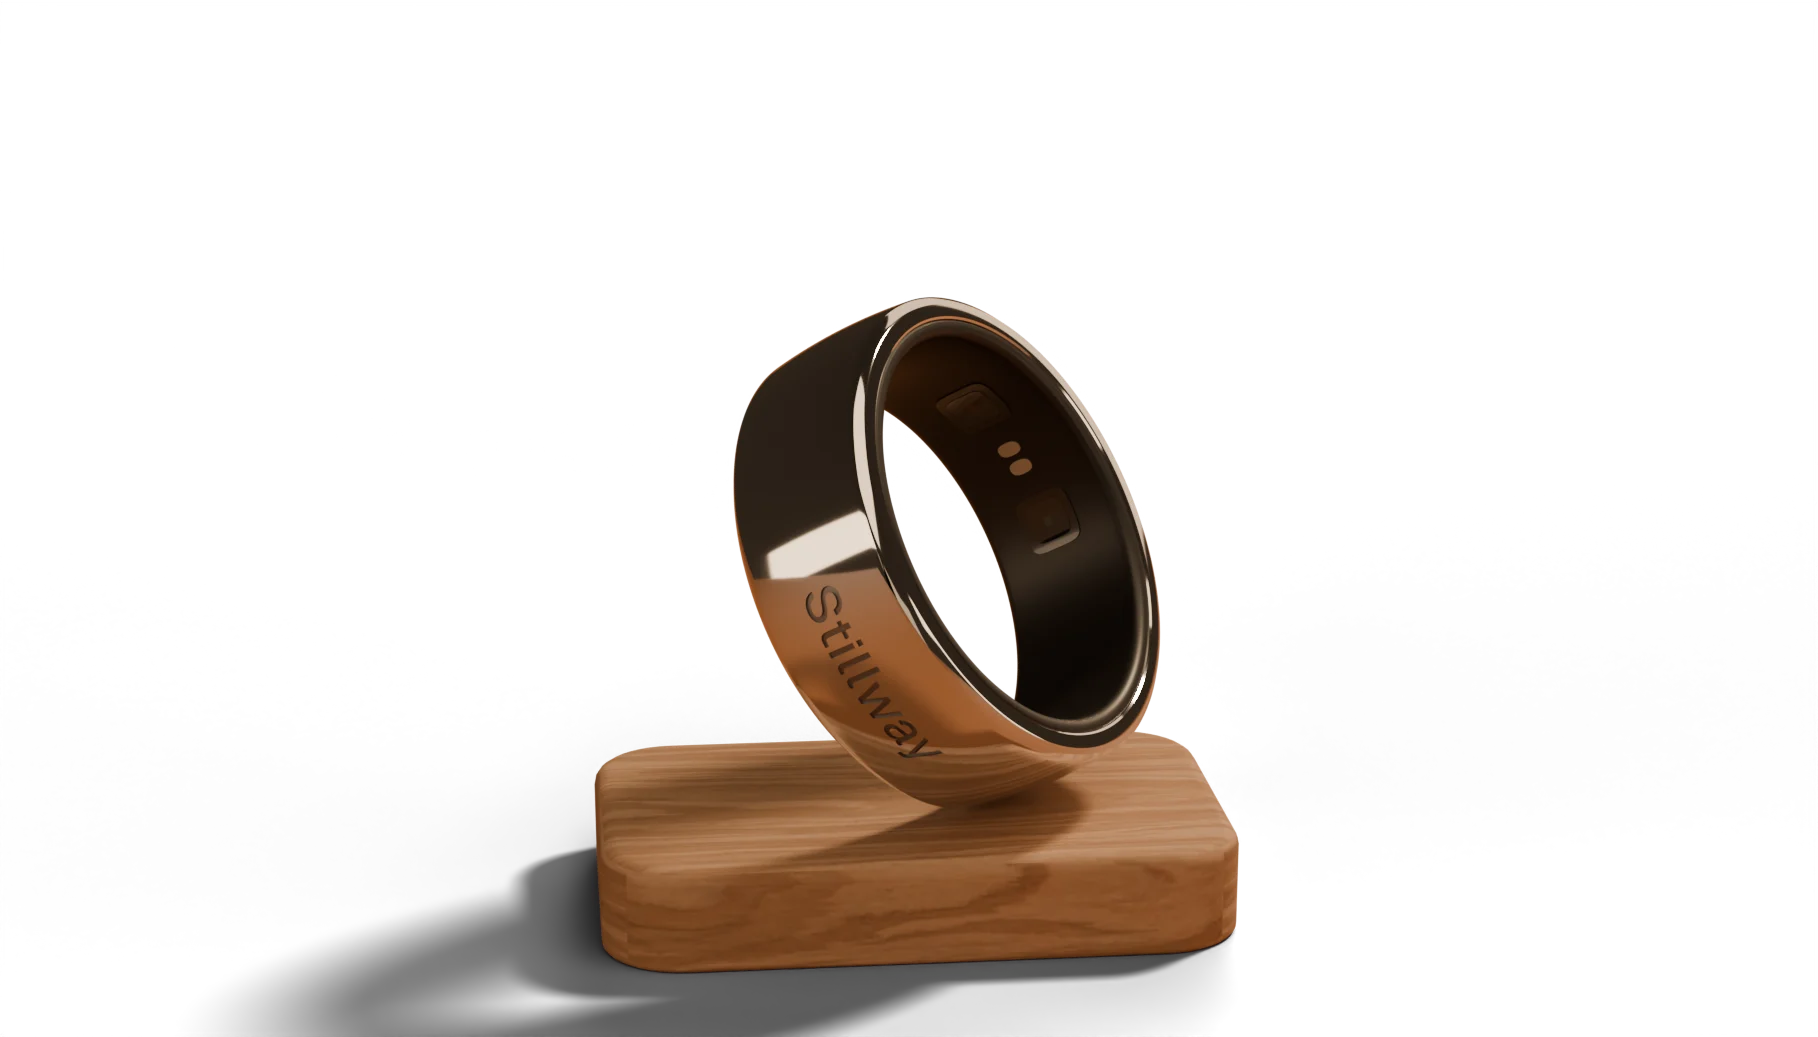
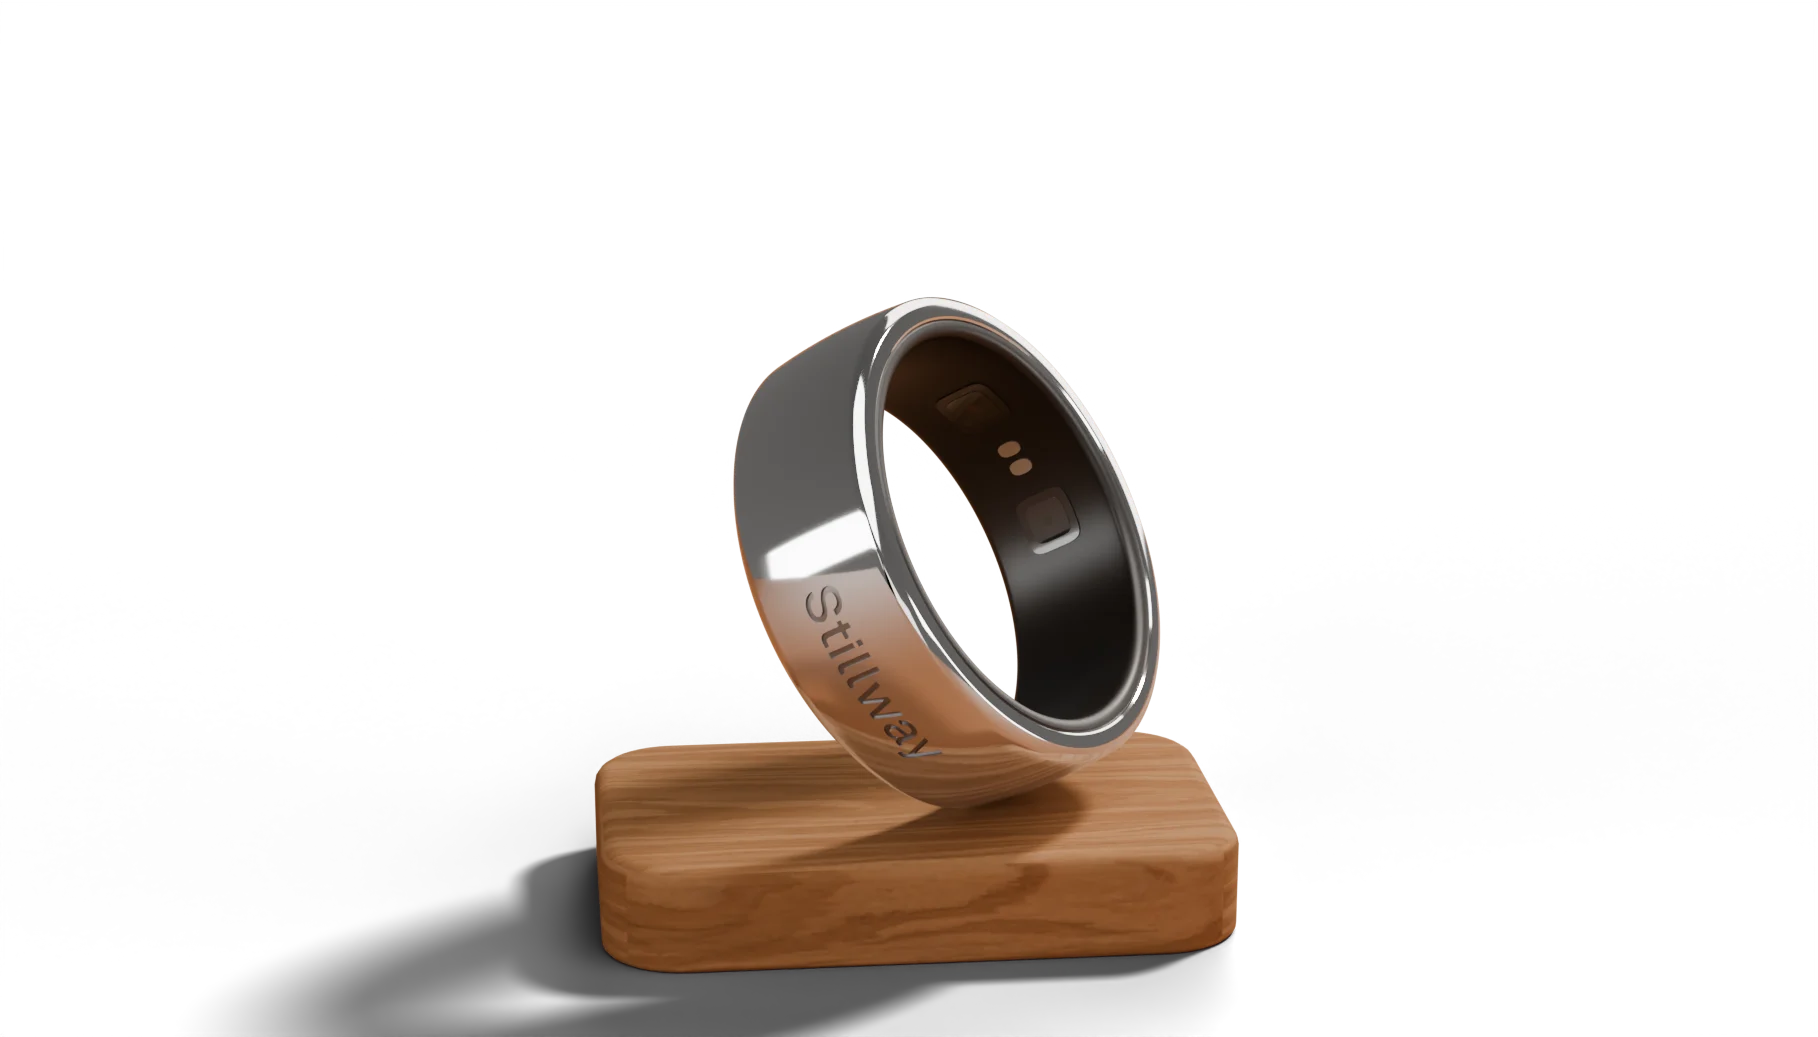
feat(web-v2): D-179 Stage 2 — hero text per Figma 40004725:5602, mobile layout, neutral poster e344d6a, exact 2D subject scale on phones

Changed region(s): [[0.4004, 0.2777, 0.6469, 0.7406]]

diff --git a/web-v2/src/scripts/ring/stage.ts b/web-v2/src/scripts/ring/stage.ts
@@ -167,16 +167,16 @@ export async function createRingStage(canvas: HTMLCanvasElement): Promise<RingSt
   /* D-179 1b: light values come from the pose JSON (lights.key.intensity, lights.fill,
      lights.pedestal_envMapIntensity); these are only the fallbacks and one gain each, tuned by eye
      against the 3D Designer's poster, so a new JSON drop retunes itself */
-  const LAMP_GAIN = 2;
+  const LAMP_GAIN = 2.3;
   const RING_DESK_ENV = 1.6;
   const DESK_PAPER = 0.35;
   /** Cycles' warm desk bounce lights the shaded faces; the web has no GI, so the env stands in */
-  const PED_ENV_GAIN = 5;
+  const PED_ENV_GAIN = 2.6;
   const SHADOW_RADIUS = 40;
   let LAMP = 2.6;
   let PED_ENV = 0.35;
   /** warm-yellow multiply on the oak: AgX turns the lamp-lit oak pinkish; matched by eye to the poster */
-  const PED_TINT = new THREE.Color().setRGB(1, 0.93, 0.5);
+  const PED_TINT = new THREE.Color().setRGB(1, 0.9, 0.42);
   renderer.shadowMap.enabled = true;
   renderer.shadowMap.type = THREE.VSMShadowMap; // smooth penumbra, no PCF noise or banding
   const desk = new THREE.Group();
@@ -285,8 +285,16 @@ export async function createRingStage(canvas: HTMLCanvasElement): Promise<RingSt
       const ay = (heroBg.anchor.y - 0.5) * ch;
       return [ax + ((fu - 0.5) * cw - ax) * zoom, ay + ((fv - 0.5) * ch - ay) * zoom];
     };
-    const [px, py] = toScreen(0.5, (C.frameH / 2 + C.shiftY * C.frameW) / C.frameH);
-    return { F: C.focalPx * (cw / C.frameW) * zoom, px, py };
+    const [px0, py0] = toScreen(0.5, (C.frameH / 2 + C.shiftY * C.frameW) / C.frameH);
+    /* phones: ring + pedestal as a 2D scale of the photo camera's image about the pedestal origin
+       (heroBg.subjectOrigin) plus a shift of subjectDy × photo height — exactly what the poster's CSS
+       scale + translate does, so poster and 3D stay identical (a 3D scale would change the view) */
+    const m = deskSubject();
+    const dy = (window.innerWidth <= 760 ? heroBg.mobile.subjectDy : heroBg.desktop.subjectDy) * ch * zoom;
+    const [qx, qy] = toScreen(heroBg.subjectOrigin.x, heroBg.subjectOrigin.y);
+    const px = qx + (px0 - qx) * m;
+    const py = qy + (py0 - qy) * m + dy;
+    return { F: C.focalPx * (cw / C.frameW) * zoom * m, px, py };
   };
   /**
    * the desk group: camera space of the JSON camera → this stage's world. Our camera sits at (0,0,F)
@@ -301,8 +309,7 @@ export async function createRingStage(canvas: HTMLCanvasElement): Promise<RingSt
     const d = deskCam.position.distanceTo(_v.fromArray(deskPose.camera.lookAt));
     deskK = F / d;
     _m.copy(deskCam.matrixWorldInverse); // world (JSON) → JSON camera space
-    const m = deskSubject();
-    desk.matrix.makeScale(deskK, deskK, deskK).premultiply(new THREE.Matrix4().makeTranslation(0, 0, F)).multiply(_m).multiply(new THREE.Matrix4().makeScale(m, m, m));
+    desk.matrix.makeScale(deskK, deskK, deskK).premultiply(new THREE.Matrix4().makeTranslation(0, 0, F)).multiply(_m);
     desk.matrixWorldNeedsUpdate = true;
   };
   /* S06 finger proxy (s06-pose.json fingerProxy): lathe around +Y in hand-photo px, y = 0 at the
@@ -588,7 +595,7 @@ export async function createRingStage(canvas: HTMLCanvasElement): Promise<RingSt
       const R = deskPose.ring;
       _v.fromArray(R.position).applyMatrix4(desk.matrix);
       pivot.position.lerp(_v, rest);
-      pivot.scale.setScalar(pivot.scale.x + (deskK * deskSubject() * (R.scale ?? 1) * (R.s01_scale ?? 1) - pivot.scale.x) * rest);
+      pivot.scale.setScalar(pivot.scale.x + (deskK * (R.scale ?? 1) * (R.s01_scale ?? 1) - pivot.scale.x) * rest);
       // ring.s01_scale (optional, JSON): larger ring only while it rests; the rest blend takes it back to the lift-off size, no pop
       _q.copy(deskCam.quaternion).invert().multiply(new THREE.Quaternion().fromArray(R.quaternion));
       pivot.quaternion.slerp(_q, rest);
@@ -680,7 +687,7 @@ export async function createRingStage(canvas: HTMLCanvasElement): Promise<RingSt
       });
       // shadow camera in world units (the group is scaled by deskK)
       const L = deskPose.lights.key.shadow;
-      const kk = deskK * deskSubject();
+      const kk = deskK;
       const b = (L.camera_bounds_m ?? 0.06) * kk;
       const sc = lampKey.shadow.camera;
       if (sc.right !== b) {

diff --git a/web-v2/src/scripts/sections/hero.ts b/web-v2/src/scripts/sections/hero.ts
@@ -1,9 +1,9 @@
 /**
  * S01 Hero — 06:50 (D-080): V1 hero look, V2 ring, Oryzo-style transition to Paper.
- * u: 0 state 1  V1 frame: photo, STILLWAY, tagline / features / price, statement. The ring floats
+ * u: 0 state 1  D-179: photo, Stillway wordmark, intro bottom-right, scroll hint bottom-left. The ring floats
  *               in front of the wordmark and follows the mouse (fine pointer ≥ 720 px, as V1 / D-051);
  *               it breathes (the one autoplay loop).
- *  0 → 1        the text slides out (wordmark up, tagline/statement left, features/price right)
+ *  0 → 1        the text slides out (wordmark up, intro right, scroll hint fades)
  *  1 → 2 state 3  the ring zooms in close, turning smoothly until the sensors show; the photo zooms
  *               OUT behind it (content/heroBg.ts)
  *  2 → 3 state 4  the ring zooms out, turning back to the centre at the size and pose of S02 state 1;
@@ -65,9 +65,6 @@ export const hero: SectionMotion = {
       photo: q('[data-h-photo]'),
       img: q('[data-h-img]'),
       word: q('[data-h-word]'),
-      tag: q('[data-h-tag]'),
-      features: q('[data-h-features]'),
-      price: q('[data-h-price]'),
       statement: q('[data-h-statement]'),
       foot: q('[data-h-foot]'),
     };
@@ -80,17 +77,14 @@ export const hero: SectionMotion = {
       gsap.timeline({ delay: 0.1 })
         // D-179: no settle-zoom on the photo any more: the 3D pedestal stands on it and must not slide
         .fromTo(root.querySelectorAll('.hero__char'), { yPercent: 110 }, { yPercent: 0, duration: 1.3, ease: 'expo.out', stagger: 0.045 }, 0.2)
-        .fromTo([el.tag, el.features, el.price, el.statement, el.foot], { opacity: 0 }, { opacity: 1, duration: 0.9, stagger: 0.08, clearProps: 'opacity' }, 0.9);
+        .fromTo([el.statement, el.foot], { opacity: 0 }, { opacity: 1, duration: 0.9, stagger: 0.08, clearProps: 'opacity' }, 0.9);
     }
   },
   update(u, ctx) {
     // 0 → 1: the text slides out
     const k = seg(u, 0.05, 0.9);
     put(el.word, { o: 1 - k, yv: -0.16 * k }, ctx);
-    put(el.tag, { o: 1 - k, x: -90 * k }, ctx);
-    put(el.features, { o: 1 - k, x: 90 * k }, ctx);
-    put(el.price, { o: 1 - k, x: 90 * k }, ctx);
-    put(el.statement, { o: 1 - k, x: -120 * k }, ctx);
+    put(el.statement, { o: 1 - k, x: 120 * k }, ctx); // intro bottom-right slides right
     put(el.foot, { o: 1 - seg(u, 0.05, 0.5) }, ctx);
 
     // 1 → 2: the photo zooms out behind the ring (D-177: from a little zoomed in down to cover, around

diff --git a/web-v2/src/content/heroBg.ts b/web-v2/src/content/heroBg.ts
@@ -33,6 +33,8 @@ export const heroBg = {
     zoomFrom: 1.14,
     /** ring + pedestal size against the photo (1 = the 3D Designer's framing) */
     subject: 1,
+    /** vertical shift of ring + pedestal against the photo (fraction of the photo height, − = up) */
+    subjectDy: 0,
     /** light first paint: preloaded, shown under the full image */
     placeholder: '/hero/hero-warm-desk-v2-960.webp',
   },
@@ -47,6 +49,8 @@ export const heroBg = {
      *  would run off both sides and read as the desk; at 0.62 it is ~300 px of 375 and reads as a
      *  pedestal (the ring stays ~175 px wide) */
     subject: 0.62,
+    /** D-179 Stage 2: lifted so the intro + scroll hint at the bottom do not cover the pedestal */
+    subjectDy: -0.14,
     placeholder: '/hero/hero-warm-desk-v2-960.webp',
   },
   /** warm dim over the photo (0..1); the photo is already a night scene */

diff --git a/web-v2/src/content/copy.ts b/web-v2/src/content/copy.ts
@@ -22,13 +22,13 @@ export const nav = {
  */
 export const hero = {
   status: 'V1 copy per D-080 (headline working copy D-014)',
-  wordmark: 'STILLWAY',
+  wordmark: 'Stillway', // D-179 Stage 2: title case (Figma 40004725:5602)
   tagline: 'Understand your rhythm.',
   features: ['Sleep summary', 'Activity and rest', 'Daily insight'],
   price: '$299',
   statement: 'A smart ring that brings your sleep, activity, and rest into one everyday view.',
   scroll: 'Scroll down',
-  ringAlt: 'The silver Stillway ring, the engraved name on its band, floating above a pale stone in a bed of moss.',
+  ringAlt: 'The silver Stillway ring, the engraved name on its band, resting on a small oak block on a warm desk.',
 };
 
 export const why = {

diff --git a/design/v2/qa26-hero/REPORT-D179.md b/design/v2/qa26-hero/REPORT-D179.md
@@ -47,3 +47,11 @@ Commit kode: `4766476` (branch Developer). Aset 3D: 3D-Designer `e7337a6`. Build
 - Onion-skin/difference ring: `D179d_ring_onion_diff.jpg`. Siluet dan rotasi menumpuk, selisih hanya di garis sorot tepi. Frame: `D179d_frames.jpg`, `D179d_375_live_vs_poster.jpg`. Bayangan: `D179d_shadow_closeup_poster_vs_3d.jpg`.
 - Arahan "lebih ke kanan dari tengah" ala Figma **tidak** diterapkan. Posisi live ditentukan oleh JSON dan harus identik dengan poster Cycles, sehingga menggeser ring di web akan merusak kecocokannya dengan poster. Pergeseran ini perlu dibuat di JSON + still oleh 3D Designer.
 - Warna: ring live tampil perak terang seperti Figma, sedangkan poster Cycles lebih gelap/hangat. Akibatnya cross-fade masih memperlihatkan perubahan nada. Ada dua pilihan: menyamakan eksposur poster di render 3D Designer, atau menurunkan `DESK_PAPER`/`RING_DESK_ENV` di web, yang akan menjauhkannya dari Figma.
+
+## Tahap 2: struktur teks hero (Figma 40004725:5602) + poster netral e344d6a
+- Wordmark "Stillway" ditulis title case di kiri atas: x 40, y 126,3, 193,59 px, line 143,4, tracking −5,81 px ditambah −4,92 px per huruf dari frame. Cincin menumpuk huruf "y". Elemen lama dihapus: "Understand your rhythm.", $299, dan tiga fitur. Grup Bawah: "SCROLL DOWN" (Mono/Medium) di kiri bawah dan intro Heading 2 selebar 389 px (3 baris) di kanan bawah. Scrim Figma (gradasi 18% → 0 → 0 → 35%) terpasang. Navbar tidak berubah.
+- Scroll: wordmark naik, intro bergeser ke kanan, dan scroll hint memudar (`D179s2_text_fade_1440.jpg`).
+- **Mobile 375 (keputusan):** wordmark selebar layar (`(100vw−40)/3.1`) di bawah nav. Intro (3 baris) berada di atas "SCROLL DOWN" di bagian bawah. Ring + alas dinaikkan `subjectDy −0.14` dari tinggi foto supaya teks tidak menutupi alas. Skala mobile 0,62 dan pergeseran ini sekarang dihitung sebagai skala/geser 2D kamera foto (focal + principal point di sekitar titik asal alas). Perhitungan ini persis sama dengan `scale` + `translate` CSS pada poster, sehingga siluet poster = 3D di 375 (tepi ring/alas cocok ±2 px). Ini menggantikan skala 3D di dunia, yang hanya mendekati.
+- Poster netral-perak e344d6a sudah dipasang. `D179s2_ring_tone_poster_vs_live.jpg` (1440 + 375): nada ring live dan poster sekarang sama-sama perak netral, jadi cross-fade tidak lagi menggeser nada.
+- Tuning: `LAMP_GAIN 2.3`, `PED_ENV_GAIN 2.6`, dan tint oak `(1, 0.9, 0.42)` untuk menaikkan densitas bayangan dan saturasi oak. **Batas:** bayangan ring di atas alas pada live masih sedikit lebih terang dan lebih pendek daripada poster (`D179s2_shadow_closeup_poster_vs_3d.jpg`).
+- Bukti: `D179s2_1440_vs_figma.jpg` (Figma | live | poster), `D179s2_375.jpg`, `D179s2_text_fade_1440.jpg`.
